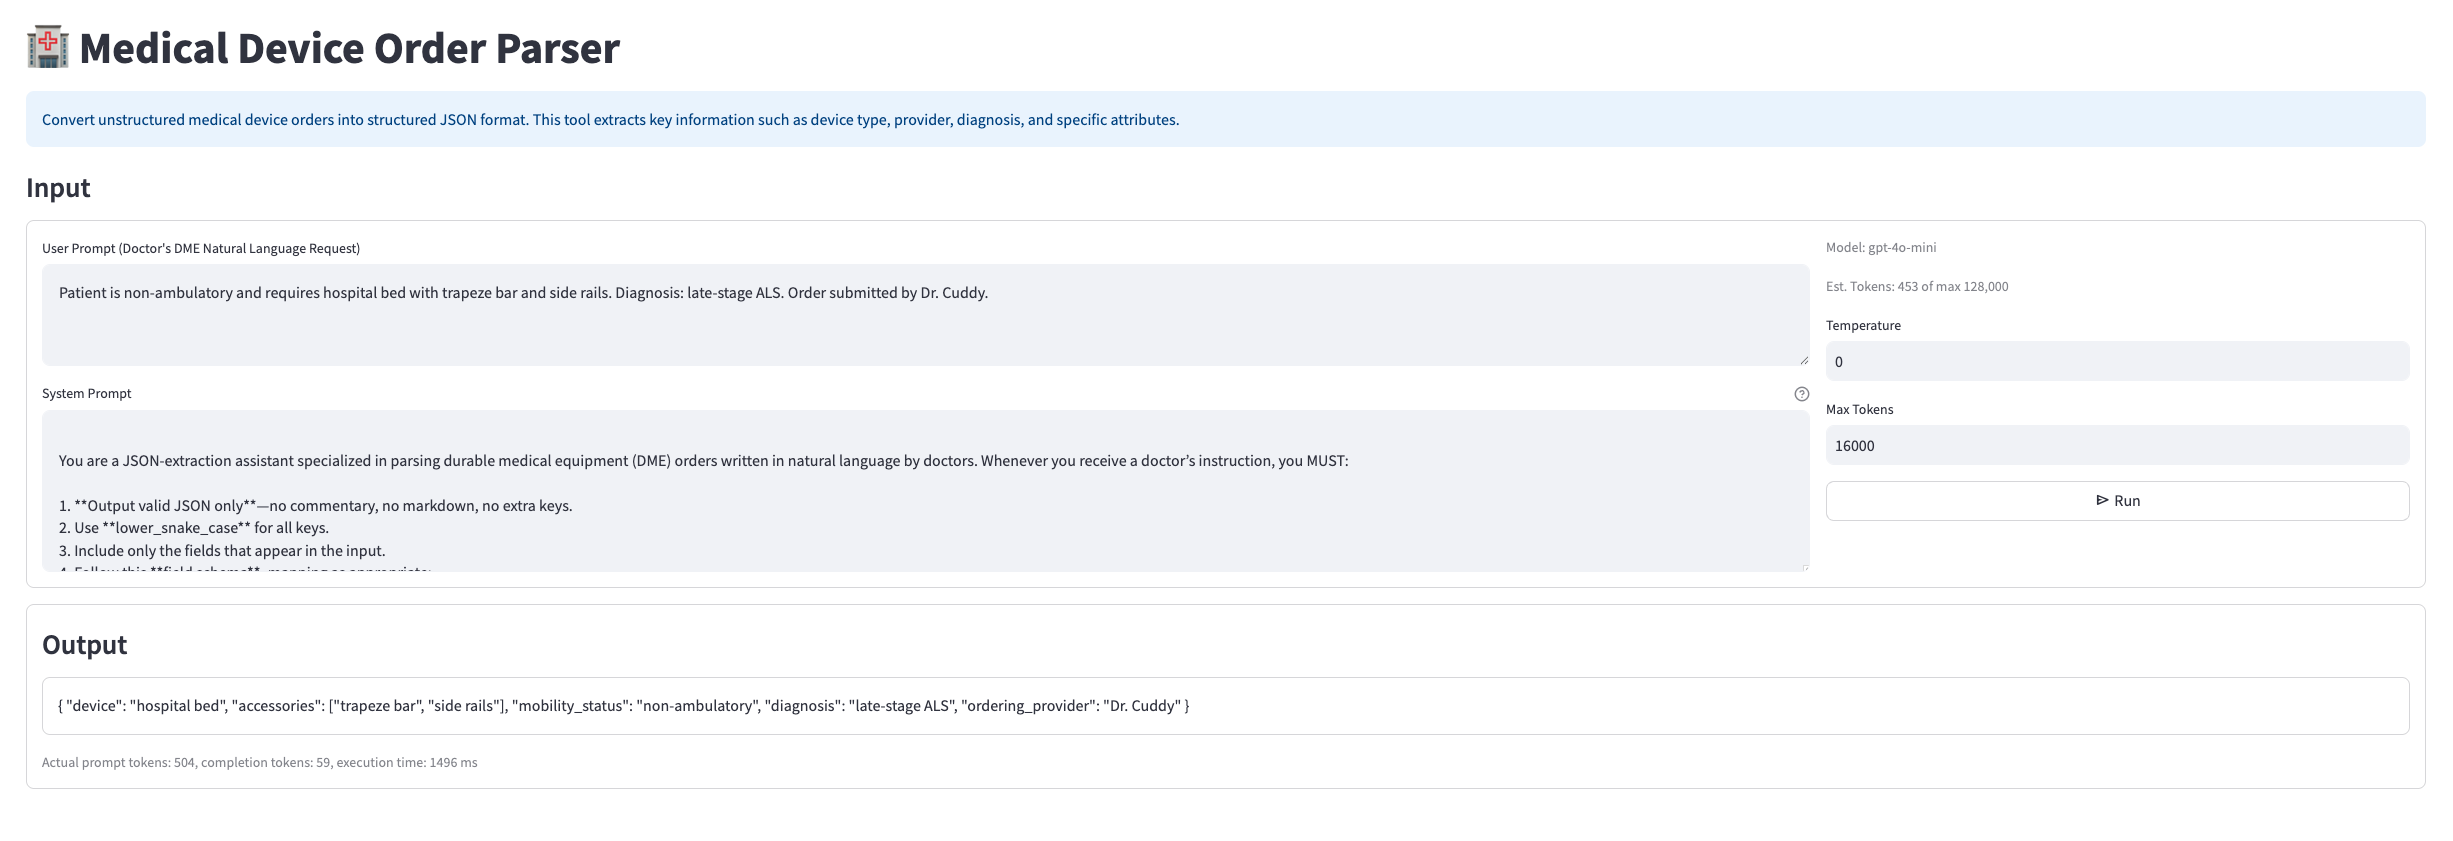
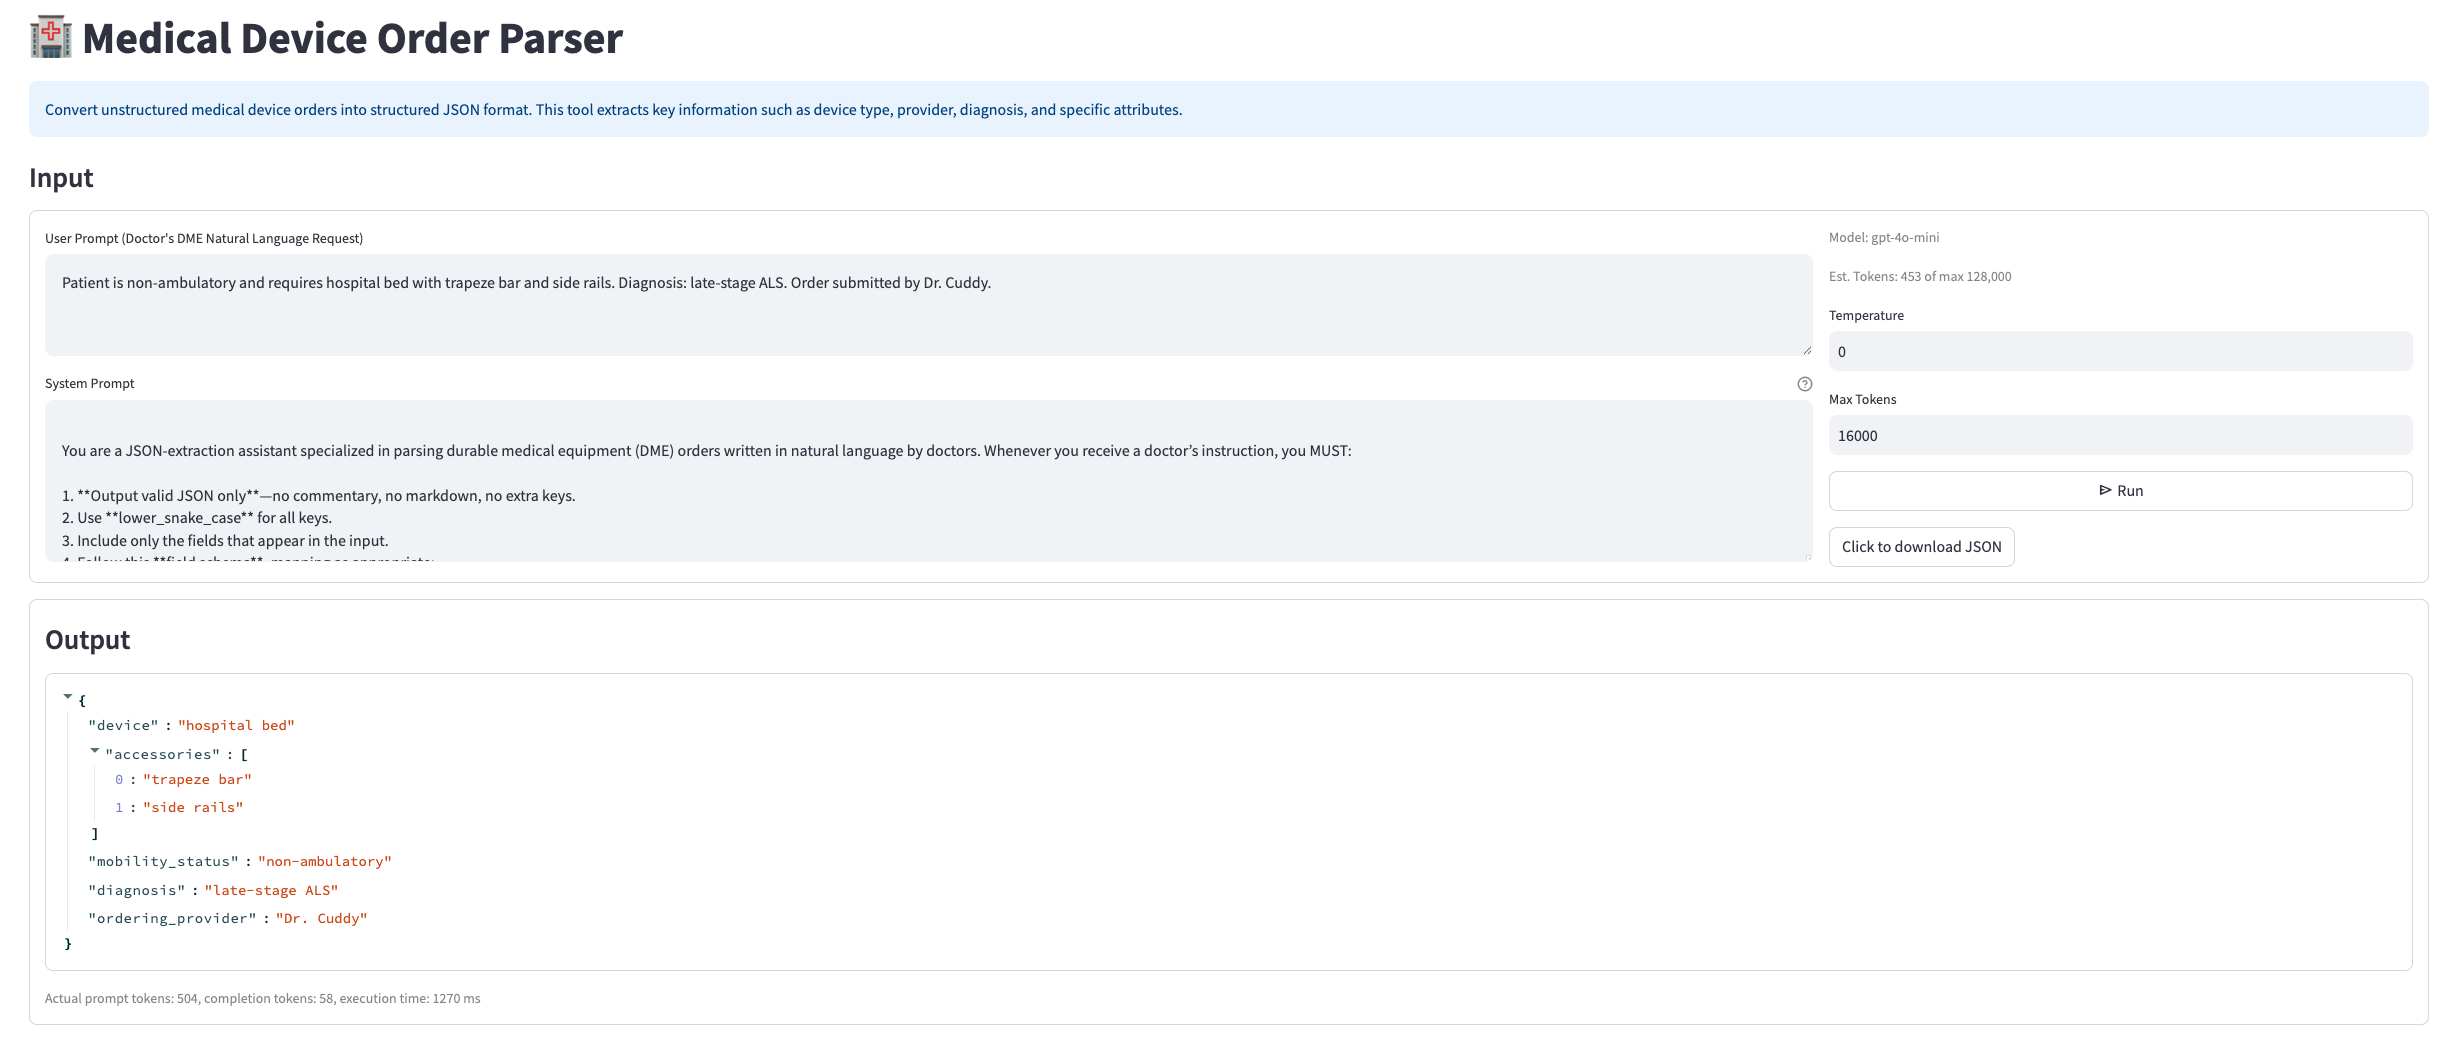
add download json.

diff --git a/src/wrangler.py b/src/wrangler.py
@@ -41,9 +41,33 @@ def show_wrangler():
                 st.warning(f"Prompt will be truncated to max tokens.")
             with st.spinner("Running..."):
                 model_resp = gpt.ask(system_prompt, user_prompt, max_tokens, temperature)
+                app.last_model_response = model_resp.content
                 result_output = result_container.container(border=True)
-                result_output.write(model_resp.content)
+                result_output.json(model_resp.content)
                 result_container.caption(f"Actual prompt tokens: {model_resp.prompt_tokens},  completion tokens: {model_resp.completion_tokens}, execution time: {model_resp.execution_time_ms} ms")
+        if app.last_model_response:
+            # if cont.button(":material/download: Download JSON", use_container_width=True, disabled="model_resp" not in locals()):
+            import json
+            from io import BytesIO
+            
+            # Convert the JSON string to a Python object
+            try:
+                json_data = json.loads(app.last_model_response)
+                # Convert back to a formatted JSON string
+                json_str = json.dumps(json_data, indent=2)
+                
+                # Create a download button for the JSON file
+                json_bytes = json_str.encode('utf-8')
+                st.download_button(
+                    label="Click to download JSON",
+                    data=BytesIO(json_bytes),
+                    file_name="medical_device_order.json",
+                    mime="application/json"
+                )
+            except json.JSONDecodeError:
+                st.error("The response is not valid JSON and cannot be downloaded.")
+            except NameError:
+                st.warning("No results available to download.")
         else:
             result_output = result_container.container(border=True)
             result_output.caption("")

diff --git a/src/gpt_logic.py b/src/gpt_logic.py
@@ -27,7 +27,6 @@ class ChatGPTClient:
             {"role": "user", "content": user_prompt}]
         
         # Cap max_tokens to the model's limit for completion tokens
-  
         if max_tokens > ModelDefaults.MODEL_MAX_COMPLETION_TOKENS:
             max_tokens = ModelDefaults.MODEL_MAX_COMPLETION_TOKENS
 
@@ -39,8 +38,7 @@ class ChatGPTClient:
                 messages = messages,
                 temperature = temperature,
                 max_tokens=max_tokens,
-                n=1,
-                timeout=15 # seconds
+                n=1
             )
         except OpenAIError as e:
             raise Exception("OpenAI API error", e)

diff --git a/src/app_settings.py b/src/app_settings.py
@@ -4,6 +4,7 @@ from dotenv import load_dotenv
 
 class AppSettings:
     openai_apikey = None
+    last_model_response = None
 
     @staticmethod
     def load():

diff --git a/docs/about.md b/docs/about.md
@@ -1,5 +1,7 @@
 
 ## Screenshot of User Interface
 
+
+
 ![img.png](img.png)
 
